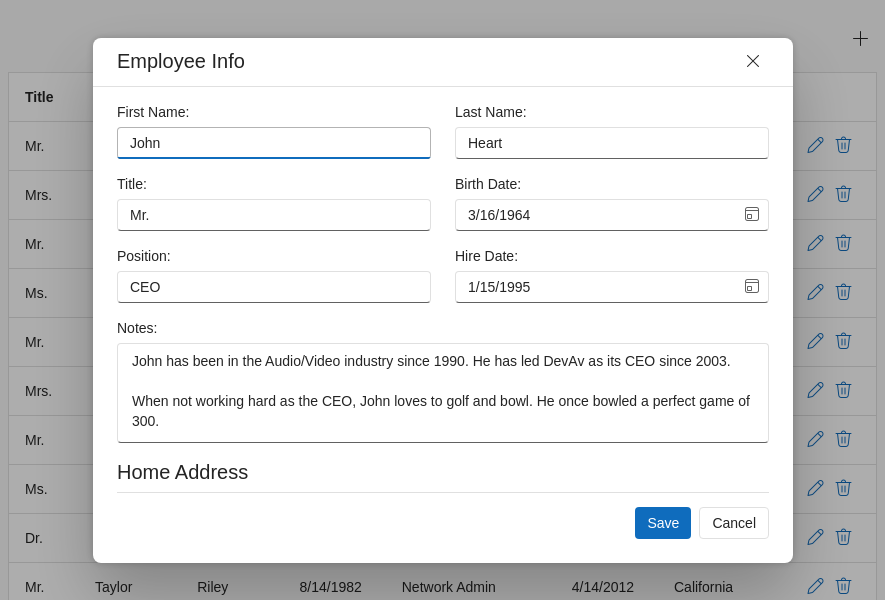
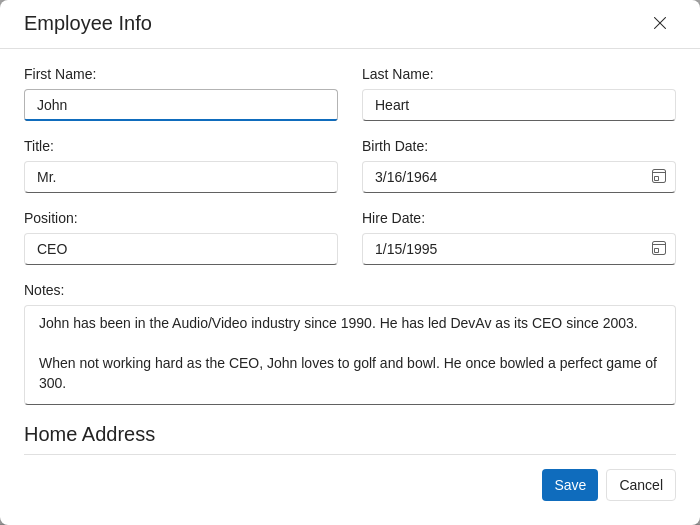
scroll popup in the test

diff --git a/apps/demos/testing/widgets/datagrid/PopupEditing.test.js b/apps/demos/testing/widgets/datagrid/PopupEditing.test.js
@@ -9,8 +9,8 @@ fixture('DataGrid.PopupEditing')
     ctx.initialWindowSize = [900, 600];
   });
 
-runManualTest('DataGrid', 'PopupEditing', ['jQuery', 'React', 'Vue', 'Angular'], (test) => {
-  test('PopupEditing', async (t) => {
+runManualTest('DataGrid', 'PopupEditing', ['jQuery'], (test) => {
+  test.only('PopupEditing', async (t) => {
     const { takeScreenshot, compareResults } = createScreenshotsComparer(t);
     
     await testScreenshot(t, takeScreenshot, 'datagrid_popup_editing_1_desktop.png');
@@ -20,6 +20,10 @@ runManualTest('DataGrid', 'PopupEditing', ['jQuery', 'React', 'Vue', 'Angular'],
       .wait(500);
 
     await testScreenshot(t, takeScreenshot, 'datagrid_popup_editing_2_desktop.png', '.dx-overlay-content');
+
+    await t.scrollBy('.dx-popup-content .dx-scrollable-container', 0, 1000);
+
+    await testScreenshot(t, takeScreenshot, 'datagrid_popup_editing_3_desktop.png', '.dx-overlay-content');
 
     await t
       .expect(compareResults.isValid())
